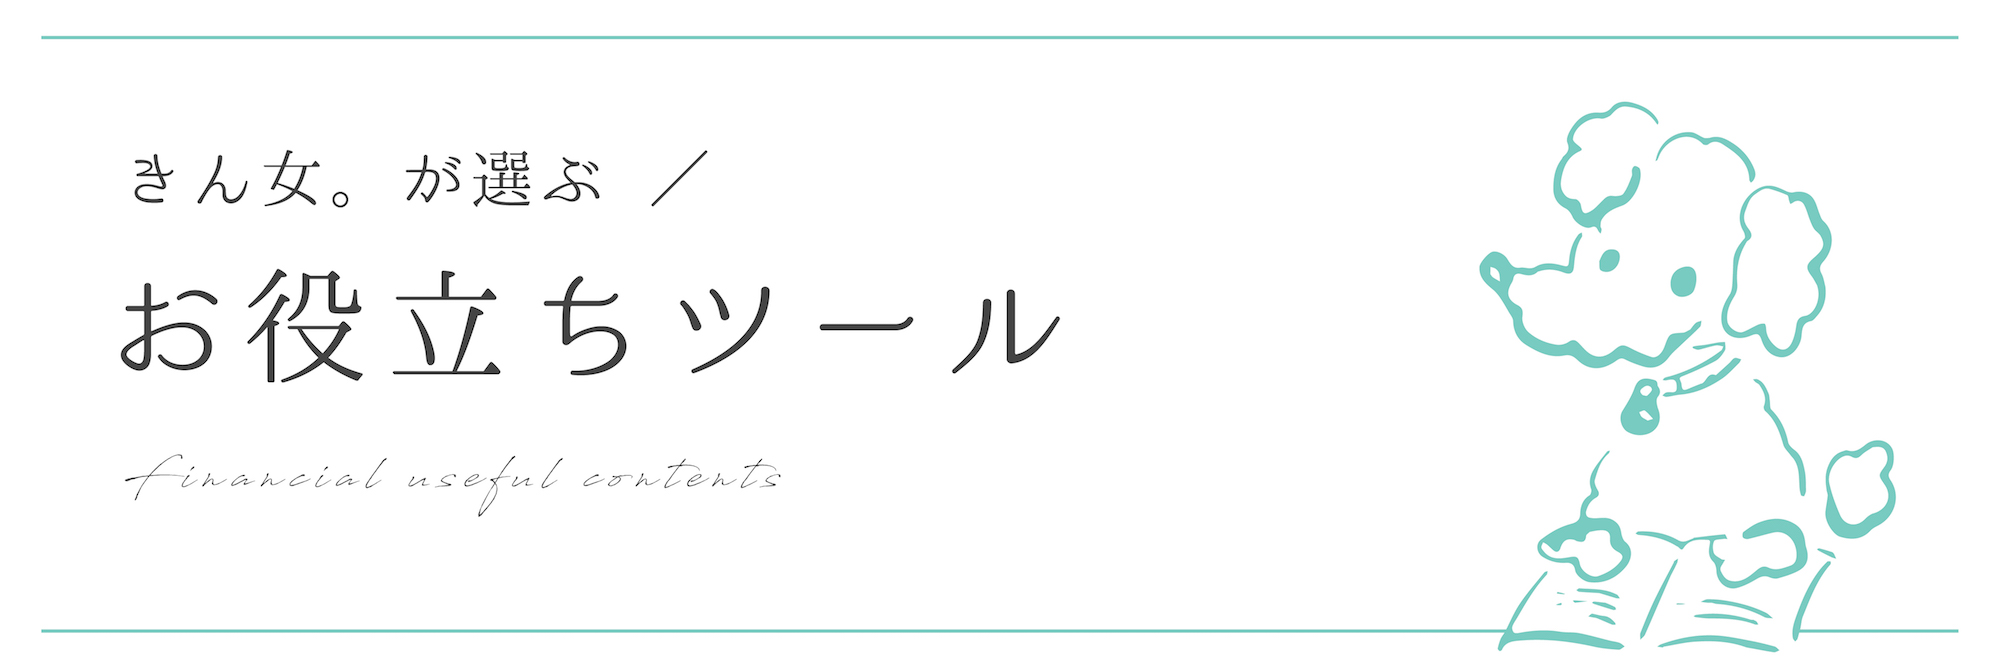
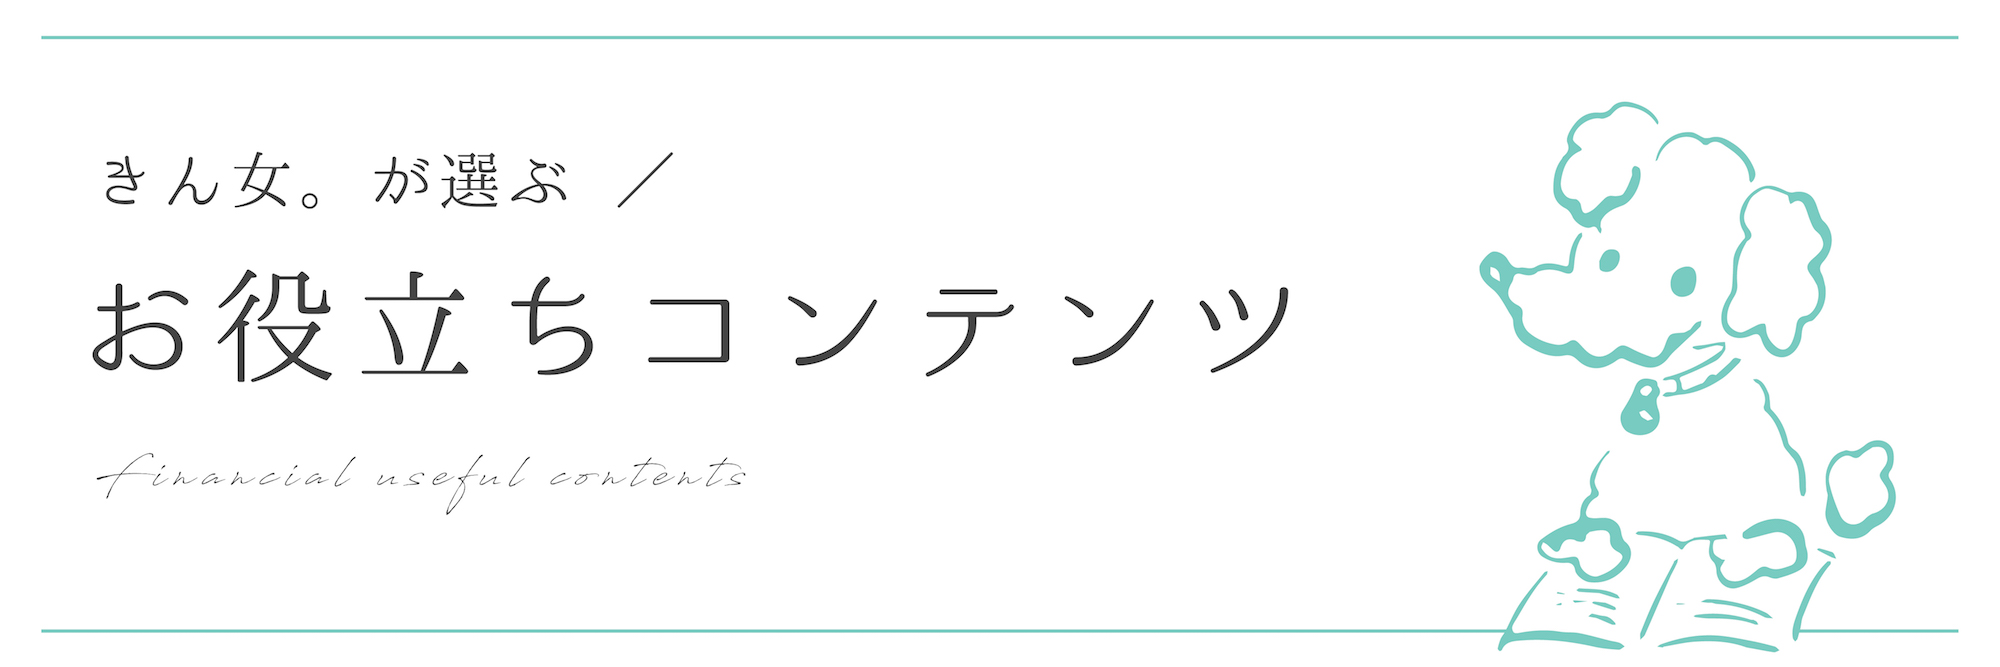
fix

diff --git a/web/public/assets/css/my/my.css b/web/public/assets/css/my/my.css
@@ -1372,6 +1372,9 @@ footer {
     color: #77cbc0;
     text-align: center;
 }
+.my-useful .mypage-content-title {
+  line-height: 32px;
+}
 
 .admin-normal-container .mypage-content-title span {
     padding: 4px 40px;

diff --git a/web/fuel/app/classes/controller/my/useful.php b/web/fuel/app/classes/controller/my/useful.php
@@ -18,8 +18,8 @@ class Controller_My_Useful extends Controller_Mybase
         $this->data['sections'] = Sections::lists();
         $this->data['applications'] = Applications::get_next_events_applications($username);
         $this->template->ogimg = 'https://kinyu-joshi.jp/images/my/useful/useful_kinyu_og.jpg';
-        $this->template->description = 'お役立ちツール｜きん女。マイページ';
-        $this->template->title = 'お役立ちツール｜きん女。マイページ';
+        $this->template->description = 'お役立ちコンテンツ｜きん女。マイページ';
+        $this->template->title = 'お役立ちコンテンツ｜きん女。マイページ';
         $this->template->pc_header = View::forge('kinyu/common/pc_header.smarty', $this->data);
         $this->template->contents = View::forge('my/useful/index.smarty', $this->data);
         
